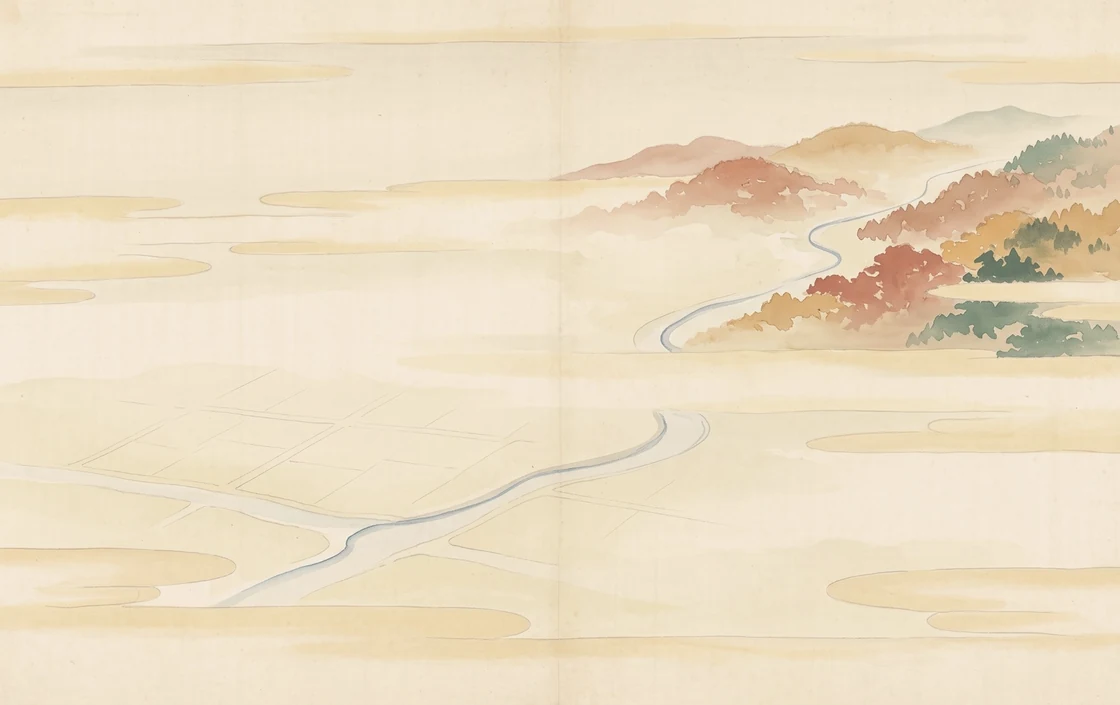
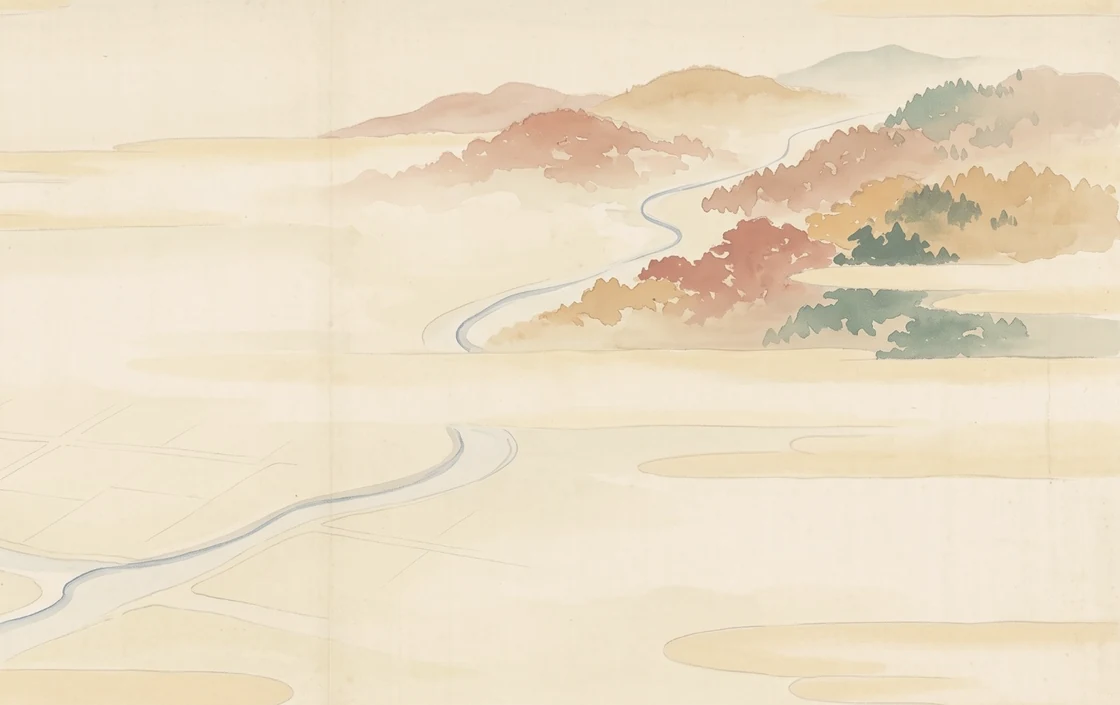
松本まちあるき: 表題が絵を隠さないように／全体図の道と文字を読めるように
表紙
- 題箋を絵の上から、絵の上の紙の余白へ移した。山も天守も隠れない

全体図
- 地の絵を左29%ぶん切り詰めて絵を寄せた（左の空白を減らす）
- 絵は紙の色を32%混ぜて一歩下がらせる
- 道を「紙色の縁11 ＋ 芯3.2」の2本立てに。淡い1本線では絵の上で消えていた
- 文字の縁取りを 2.2px → 3px、不透明に
- 説明の小さい字を 8.5 → 9.4 に。スマホで潰れていた

diff --git a/tabi/matsumoto-20261114/index.html b/tabi/matsumoto-20261114/index.html
@@ -90,16 +90,16 @@ body.arriving .wrap{animation:settle .34s ease-out}
 
 /* 表紙。絵は江戸の絵地図。文字は画像に焼き込まず、ここで重ねる（崩れないので）。
    題は上に置く。この絵は下のほうが賑やかで、上の左右がいちばん静かなため */
-.cover{margin:0 -16px 4px;position:relative;line-height:0;
-  background:var(--card);border-bottom:1px solid var(--line)}
+.cover{margin:0 -16px 4px;position:relative;text-align:left;
+  padding-top:13px;background:var(--card);border-bottom:1px solid var(--line)}
 .cover img{width:100%;height:auto;display:block}
 /* 下端を地の色へ溶かす。明るい画面では地が生成りなので見えない（暗い画面用） */
 .cover::after{content:"";position:absolute;left:0;right:0;bottom:0;height:9%;
   pointer-events:none;background:linear-gradient(to bottom,transparent,var(--bg))}
 /* 題箋（だいせん）。絵図に貼る紙の札。ぼかしで覆うと山が消えるので、
    小さい札にして、絵はそのまま見せる */
-.cover figcaption{position:absolute;top:5.2%;left:4%;line-height:1.3;
-  padding:9px 13px 8px;text-align:left;pointer-events:none;
+.cover figcaption{display:inline-block;margin:0 16px 11px;line-height:1.3;
+  padding:8px 14px 7px;pointer-events:none;
   background:#f6efe0;border:1px solid #cbbb97;
   box-shadow:0 1px 0 rgba(90,74,44,.16),1px 2px 5px rgba(60,48,26,.13)}
 .cover .ev{display:block;font-size:16px;font-weight:700;color:#2a241a;
@@ -111,8 +111,8 @@ body.arriving .wrap{animation:settle .34s ease-out}
 .cover .mk{font-family:"Hiragino Mincho ProN","Yu Mincho","YuMincho",
   "Noto Serif JP","MS PMincho",serif}
 @media (min-width:430px){
-  .cover .ev{font-size:21px} .cover .ev2{font-size:12.5px}
-  .cover figcaption{padding:12px 17px 11px}
+  .cover .ev{font-size:20px} .cover .ev2{font-size:12px}
+  .cover figcaption{padding:10px 16px 9px}
 }
 header{padding-block:22px 6px;text-align:center}
 .eyebrow{font-size:11.5px;letter-spacing:.24em;color:var(--sub);margin:0 0 10px;font-variant-numeric:tabular-nums}
@@ -310,7 +310,8 @@ svg a.lbl text{text-decoration:underline;text-decoration-style:dotted;
   .nav{justify-content:center}
   header{padding-block:36px 10px}
   .cover{margin-inline:-32px;border-radius:0}
-  .cover figcaption{padding:15px 22px 13px}
+  .cover{padding-top:20px}
+  .cover figcaption{margin:0 32px 16px;padding:11px 20px 10px}
   .cover .ev{font-size:27px}
   .cover .ev2{font-size:14px;margin-top:4px}
   h1{font-size:38px}
@@ -332,8 +333,8 @@ svg a.lbl text{text-decoration:underline;text-decoration-style:dotted;
    絵を薄くして逃げると絵が消えるので、こちらで受ける。
    塗りつぶしの札の中の文字（--oncolor）は地が濃いので除く */
 .overview svg text:not([fill="var(--oncolor)"]):not([fill="var(--bg)"]){
-  paint-order:stroke fill;stroke:var(--bg);stroke-width:2.2px;
-  stroke-linejoin:round;stroke-opacity:.92}
+  paint-order:stroke fill;stroke:var(--bg);stroke-width:3px;
+  stroke-linejoin:round;stroke-opacity:1}
 /* 全体図は模式図。引き伸ばすと粗が目立つので幅を止める */
   .cats{grid-template-columns:1fr 1fr;align-items:start}
   .fab{right:24px;bottom:24px}
@@ -374,12 +375,12 @@ svg a.lbl text{text-decoration:underline;text-decoration-style:dotted;
 </div>
 
 <figure class="cover">
-  <img src="img/cover.webp" width="1200" height="670" fetchpriority="high"
-       alt="松本城と城下町を空から見た絵図。堀と赤い橋、白壁となまこ壁の町並み、紅葉、奥に雪をかぶった北アルプス。">
   <figcaption>
     <span class="ev">第2回 いとこ会</span>
     <span class="ev2">〜 松本温泉<span class="mk">♨</span>編 〜</span>
   </figcaption>
+  <img src="img/cover.webp" width="1200" height="670" fetchpriority="high"
+       alt="松本城と城下町を空から見た絵図。堀と赤い橋、白壁となまこ壁の町並み、紅葉、奥に雪をかぶった北アルプス。">
 </figure>
 
 <header>
@@ -436,10 +437,14 @@ svg a.lbl text{text-decoration:underline;text-decoration-style:dotted;
 
 
 
-    <g stroke="var(--line)" stroke-width="7" stroke-linecap="round" fill="none">
+    <defs><g id="rt">
       <path d="M38 150 L126 156"/>
       <path d="M126 156 L200 110"/>
       <path d="M200 110 L296 64"/>
+    </g></defs>
+    <g fill="none" stroke-linecap="round">
+      <use href="#rt" stroke="var(--bg)" stroke-width="11" opacity=".95"/>
+      <use href="#rt" stroke="var(--sub)" stroke-width="3.2" opacity=".42"/>
     </g>
 
     <g>
@@ -447,7 +452,7 @@ svg a.lbl text{text-decoration:underline;text-decoration-style:dotted;
         <rect x="8" y="138" width="60" height="42" fill="transparent"/>
         <rect x="12" y="142" width="52" height="17" rx="3.5" fill="var(--sub)"/>
         <text x="38" y="154" font-size="9.5" fill="var(--bg)" text-anchor="middle">松本IC ›</text>
-        <text x="38" y="174" font-size="8.5" fill="var(--sub)" text-anchor="middle">長野自動車道</text>
+        <text x="38" y="175" font-size="9.4" fill="var(--sub)" text-anchor="middle">長野自動車道</text>
       </a>
     </g>
 
@@ -456,10 +461,10 @@ svg a.lbl text{text-decoration:underline;text-decoration-style:dotted;
       <circle cx="126" cy="156" r="7" fill="var(--accent)"/>
       <text x="126" y="178" font-size="11" fill="var(--ink)" text-anchor="middle">松本駅</text>
     </a>
-    <text x="126" y="191" font-size="8.5" fill="var(--sub)" text-anchor="middle">標高586m</text>
+    <text x="126" y="192" font-size="9.4" fill="var(--sub)" text-anchor="middle">標高586m</text>
 
     <a href="#jokamachi">
-      <text x="200" y="80" font-size="8.5" fill="var(--sub)" text-anchor="middle">なわて・中町・松本城</text>
+      <text x="200" y="79" font-size="9.4" fill="var(--sub)" text-anchor="middle">なわて・中町・松本城</text>
       <text x="200" y="94" font-size="12" fill="var(--ink)" text-anchor="middle">城下町</text>
       <circle cx="200" cy="110" r="9" fill="none" stroke="var(--accent)" stroke-width="1.6" opacity=".45"/>
       <circle cx="200" cy="110" r="5.5" fill="var(--accent)"/>
@@ -468,7 +473,7 @@ svg a.lbl text{text-decoration:underline;text-decoration-style:dotted;
     </a>
 
     <a href="#onsen">
-      <text x="296" y="34" font-size="8.5" fill="var(--sub)" text-anchor="middle">追分屋・松本民芸館</text>
+      <text x="294" y="33" font-size="9.4" fill="var(--sub)" text-anchor="middle">追分屋・松本民芸館</text>
       <text x="296" y="48" font-size="12" fill="var(--ink)" text-anchor="middle">美ヶ原温泉</text>
       <circle cx="296" cy="64" r="9.5" fill="none" stroke="var(--gold)" stroke-width="1.6" opacity=".5"/>
       <circle cx="296" cy="64" r="6" fill="var(--gold)"/>
